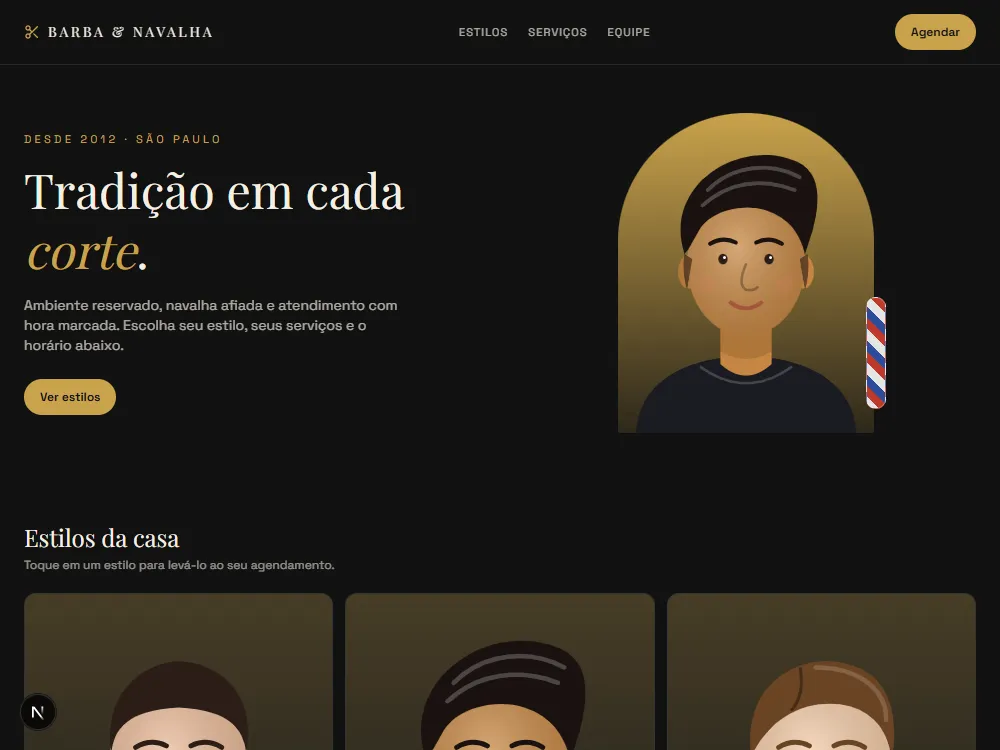
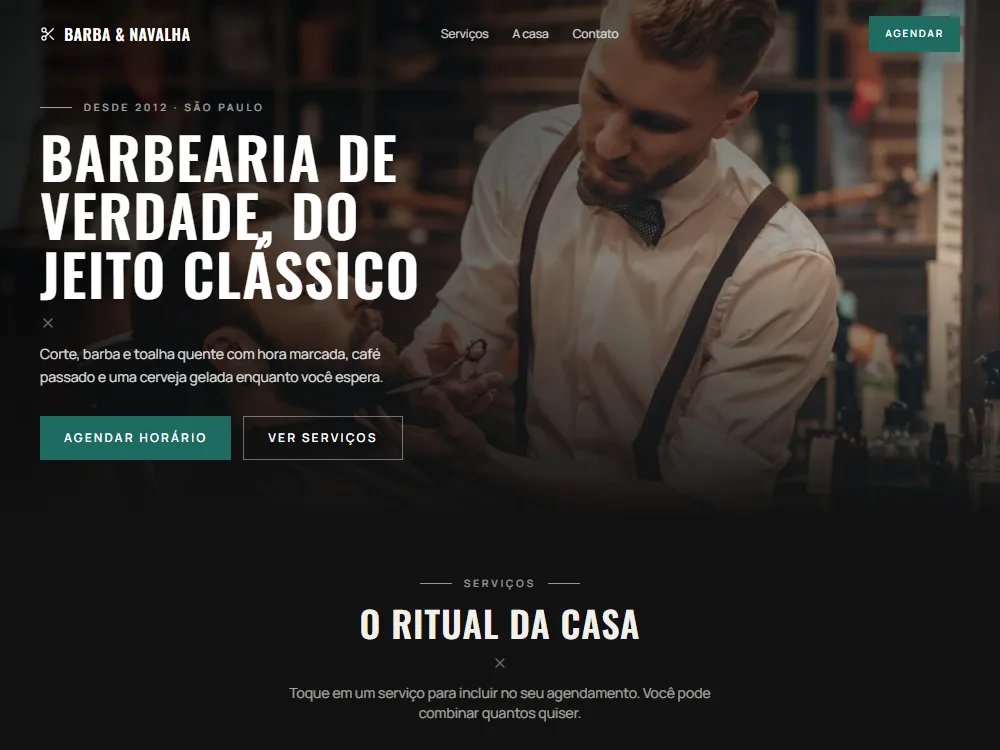
Reformula modelo Barbearia com fotos reais
Hero com foto em tela cheia, títulos condensados (Oswald), serviços com
foto e preço, agendamento com barbeiro e horário, seção "a casa" com
números e novas capturas para a página inicial.

diff --git a/web/components/demos/Barbearia.tsx b/web/components/demos/Barbearia.tsx
@@ -1,38 +1,42 @@
 "use client";
 
 import { useState } from "react";
-import { Scissors, Check, Clock, MapPin } from "lucide-react";
+import Image from "next/image";
+import { Check, Clock, MapPin, MessageCircle, Scissors, Star, X } from "lucide-react";
 import type { Template } from "@/data/templates";
-import { DemoShell, btn } from "./DemoShell";
-import Hair, { type HairStyle } from "./art/Hair";
+import { DemoShell } from "./DemoShell";
+
+const BARBA = "/modelos/barbearia/barba.webp";
+const CORTE = "/modelos/barbearia/corte.webp";
 
 const servicos = [
-  { id: "corte", nome: "Corte clássico", preco: 55, tempo: "40 min" },
-  { id: "barba", nome: "Barba com toalha quente", preco: 40, tempo: "30 min" },
-  { id: "combo", nome: "Corte + barba", preco: 85, tempo: "70 min" },
-  { id: "sobrancelha", nome: "Sobrancelha", preco: 20, tempo: "15 min" },
+  { id: "corte", nome: "Corte clássico", preco: 55, tempo: "40 min", cat: "Cabelo", desc: "Tesoura e máquina, lavagem e finalização com pomada.", foto: CORTE, pos: "45% 25%" },
+  { id: "barba", nome: "Barba com toalha quente", preco: 40, tempo: "30 min", cat: "Barba", desc: "Navalha, toalha quente, óleo e balm para a pele.", foto: BARBA, pos: "36% 50%" },
+  { id: "combo", nome: "Corte + barba", preco: 85, tempo: "70 min", cat: "Combo", desc: "O ritual completo da casa, com bebida por nossa conta.", foto: BARBA, pos: "72% 30%" },
+  { id: "sobrancelha", nome: "Sobrancelha", preco: 20, tempo: "15 min", cat: "Acabamento", desc: "Alinhamento na navalha ou na pinça.", foto: CORTE, pos: "40% 60%" },
 ];
 const horarios = ["09:00", "10:30", "13:00", "15:30", "17:00", "18:30"];
+const barbeiros = ["Sem preferência", "Rafael", "Diego", "Caio"];
 
-const estilos: { style: HairStyle; nome: string; skin: string; hair: string }[] = [
-  { style: "fade", nome: "Degradê", skin: "#e8b896", hair: "#2b1d16" },
-  { style: "pompadour", nome: "Pompadour", skin: "#c68642", hair: "#1a1210" },
-  { style: "social", nome: "Social", skin: "#f1c9a5", hair: "#6b4423" },
-  { style: "curly", nome: "Cacheado", skin: "#8d5524", hair: "#1a1210" },
-  { style: "beard", nome: "Barba e bigode", skin: "#d9a578", hair: "#2b1d16" },
-  { style: "buzz", nome: "Zero", skin: "#a9713f", hair: "#111111" },
-];
+const title = "font-[family-name:var(--font-oswald)] uppercase tracking-wide";
+const teal = "bg-[var(--c2)] text-white hover:brightness-110";
+const btnBase = "inline-flex min-h-11 cursor-pointer items-center justify-center gap-2 px-6 text-xs font-semibold uppercase tracking-[.18em] transition";
 
-const equipe = [
-  { nome: "Rafael", funcao: "Degradê e navalha", style: "fade" as HairStyle, skin: "#e8b896", hair: "#2b1d16", beard: false },
-  { nome: "Diego", funcao: "Barba e bigode", style: "bun" as HairStyle, skin: "#c68642", hair: "#3a2416", beard: true },
-  { nome: "Caio", funcao: "Cortes clássicos", style: "social" as HairStyle, skin: "#8d5524", hair: "#111111", beard: false },
-];
+function Superscript({ children, center = false }: { children: string; center?: boolean }) {
+  return (
+    <p className={`mb-3 flex items-center gap-3 text-[10px] font-medium uppercase tracking-[.3em] opacity-60 ${center ? "justify-center" : ""}`}>
+      <span className="h-px w-8 bg-current" />
+      {children}
+      {center && <span className="h-px w-8 bg-current" />}
+    </p>
+  );
+}
+const Divisor = ({ center = false }: { center?: boolean }) => <X className={`my-3 h-4 w-4 opacity-40 ${center ? "mx-auto" : ""}`} aria-hidden="true" />;
 
 export default function Barbearia({ t }: { t: Template }) {
   const [sel, setSel] = useState<string[]>(["corte"]);
   const [hora, setHora] = useState("13:00");
-  const [estilo, setEstilo] = useState<string | null>(null);
+  const [barbeiro, setBarbeiro] = useState(barbeiros[0]);
   const [ok, setOk] = useState(false);
   const total = servicos.filter((s) => sel.includes(s.id)).reduce((a, s) => a + s.preco, 0);
   const toggle = (id: string) => {
@@ -41,96 +45,210 @@ export default function Barbearia({ t }: { t: Template }) {
   };
 
   return (
-    <DemoShell t={t}>
-      <nav className="sticky top-0 z-10 flex items-center justify-between border-b border-[var(--c3)]/10 bg-[var(--c1)]/90 px-6 py-3.5 backdrop-blur">
-        <span className="flex items-center gap-2 font-serif text-sm tracking-[.2em]"><Scissors className="h-4 w-4 text-[var(--c2)]" aria-hidden="true" />BARBA &amp; NAVALHA</span>
-        <span className="hidden gap-5 text-[11px] uppercase tracking-widest opacity-70 @xl:flex"><a>Estilos</a><a>Serviços</a><a>Equipe</a></span>
-        <button type="button" className={btn}>Agendar</button>
+    <DemoShell t={t} className="relative font-[family-name:var(--font-manrope)]">
+      {/* menu */}
+      <nav className="absolute inset-x-0 top-0 z-20 flex items-center justify-between px-6 py-4 text-white @3xl:px-10">
+        <span className={`${title} flex items-center gap-2 text-base font-semibold tracking-[.3em]`}>
+          <Scissors className="h-4 w-4" aria-hidden="true" />
+          Barba &amp; Navalha
+        </span>
+        <span className="hidden gap-6 text-xs opacity-80 @3xl:flex">
+          <a>Serviços</a>
+          <a>A casa</a>
+          <a>Contato</a>
+        </span>
+        <button type="button" className={`${btnBase} ${teal} !min-h-9 !px-4 !text-[10px]`}>
+          Agendar
+        </button>
       </nav>
 
-      <header className="grid items-center gap-8 px-6 py-12 @xl:grid-cols-2">
-        <div>
-          <p className="mb-3 text-[11px] uppercase tracking-[.3em] text-[var(--c2)]">Desde 2012 · São Paulo</p>
-          <h3 className="mb-4 font-serif text-4xl leading-tight @xl:text-5xl">Tradição em cada <em className="text-[var(--c2)]">corte</em>.</h3>
-          <p className="mb-6 max-w-sm text-sm opacity-70">Ambiente reservado, navalha afiada e atendimento com hora marcada. Escolha seu estilo, seus serviços e o horário abaixo.</p>
-          <a className={btn}>Ver estilos</a>
-        </div>
-        <div className="relative mx-auto h-64 w-52 @xl:h-80 @xl:w-64">
-          <div className="absolute inset-0 rounded-t-[999px] rounded-b-2xl bg-gradient-to-b from-[var(--c2)] to-[var(--c2)]/15" />
-          <Hair style="pompadour" skin="#c68642" hair="#1a1210" className="absolute inset-x-0 bottom-0 h-[96%] w-full" />
-          <div className="absolute -right-3 bottom-6 h-28 w-5 rounded-full border border-[var(--c3)]/30 [background:repeating-linear-gradient(45deg,#e5e5e5_0_8px,#c0392b_8px_16px,#2b4c9b_16px_24px)]" aria-hidden="true" />
+      {/* hero com foto */}
+      <header className="relative min-h-[460px] overflow-hidden text-white @3xl:min-h-[520px]">
+        <Image src={BARBA} alt="Barbeiro aparando a barba de um cliente na tesoura" fill priority sizes="1000px" className="object-cover object-[60%_30%]" />
+        <div aria-hidden="true" className="absolute inset-0 bg-gradient-to-r from-black/85 via-black/55 to-black/10" />
+        <div aria-hidden="true" className="absolute inset-0 bg-gradient-to-t from-[var(--c1)] via-transparent to-black/40" />
+        <div className="relative flex min-h-[460px] flex-col justify-center px-6 pb-14 pt-24 @3xl:min-h-[520px] @3xl:px-10">
+          <Superscript>Desde 2012 · São Paulo</Superscript>
+          <h3 className={`${title} max-w-md text-[2.8rem] font-semibold leading-[1.02] @xl:text-[3.6rem]`}>Barbearia de verdade, do jeito clássico</h3>
+          <Divisor />
+          <p className="mb-7 max-w-sm text-sm leading-relaxed opacity-85">Corte, barba e toalha quente com hora marcada, café passado e uma cerveja gelada enquanto você espera.</p>
+          <div className="flex flex-wrap gap-3">
+            <button type="button" className={`${btnBase} ${teal}`}>
+              Agendar horário
+            </button>
+            <button type="button" className={`${btnBase} border border-white/40 hover:border-white`}>
+              Ver serviços
+            </button>
+          </div>
         </div>
       </header>
 
-      <section className="px-6 py-10">
-        <h4 className="mb-1 font-serif text-2xl">Estilos da casa</h4>
-        <p className="mb-5 text-xs opacity-60">Toque em um estilo para levá-lo ao seu agendamento.</p>
-        <div className="grid grid-cols-2 gap-3 @xl:grid-cols-3">
-          {estilos.map((e) => {
-            const on = estilo === e.nome;
-            return (
-              <button key={e.nome} type="button" aria-pressed={on} onClick={() => { setEstilo(on ? null : e.nome); setOk(false); }}
-                className={`group cursor-pointer overflow-hidden rounded-xl border text-left transition ${on ? "border-[var(--c2)] bg-[var(--c2)]/10" : "border-[var(--c3)]/12 bg-[var(--c3)]/[.04] hover:border-[var(--c2)]/60"}`}>
-                <div className="aspect-[5/6] overflow-hidden bg-gradient-to-b from-[var(--c2)]/25 to-transparent">
-                  <Hair style={e.style} skin={e.skin} hair={e.hair} className="h-full w-full translate-y-3 transition duration-500 group-hover:scale-110" />
-                </div>
-                <div className="flex items-center justify-between px-3 py-2.5 text-xs font-medium">
-                  {e.nome}
-                  <span className={`grid h-4 w-4 place-items-center rounded-full border ${on ? "border-[var(--c2)] bg-[var(--c2)] text-[var(--c1)]" : "border-[var(--c3)]/30"}`}>{on && <Check className="h-2.5 w-2.5" aria-hidden="true" />}</span>
-                </div>
-              </button>
-            );
-          })}
-        </div>
-      </section>
-
-      <section className="px-6 py-10">
-        <h4 className="mb-1 font-serif text-2xl">Monte seu atendimento</h4>
-        <p className="mb-5 text-xs opacity-60">Toque nos serviços e escolha um horário.</p>
-        <div className="grid gap-3 @xl:grid-cols-2">
-          {servicos.map((s) => {
+      {/* serviços com foto */}
+      <section className="px-6 py-14 text-center @3xl:px-10">
+        <Superscript center>Serviços</Superscript>
+        <h4 className={`${title} text-3xl font-semibold @xl:text-4xl`}>O ritual da casa</h4>
+        <Divisor center />
+        <p className="mx-auto mb-9 max-w-md text-sm opacity-65">Toque em um serviço para incluir no seu agendamento. Você pode combinar quantos quiser.</p>
+        <div className="grid gap-4 text-left @xl:grid-cols-3">
+          {servicos.slice(0, 3).map((s) => {
             const on = sel.includes(s.id);
             return (
-              <button key={s.id} type="button" aria-pressed={on} onClick={() => toggle(s.id)}
-                className={`flex cursor-pointer items-center justify-between rounded-xl border p-4 text-left transition ${on ? "border-[var(--c2)] bg-[var(--c2)]/10" : "border-[var(--c3)]/15 hover:border-[var(--c2)]/60"}`}>
-                <span>
-                  <span className="block text-sm font-medium">{s.nome}</span>
-                  <span className="mt-0.5 flex items-center gap-1 text-[11px] opacity-60"><Clock className="h-3 w-3" aria-hidden="true" />{s.tempo}</span>
-                </span>
-                <span className="flex items-center gap-3 text-sm font-semibold text-[var(--c2)]">R$ {s.preco}
-                  <span className={`grid h-5 w-5 place-items-center rounded-full border ${on ? "border-[var(--c2)] bg-[var(--c2)] text-[var(--c1)]" : "border-[var(--c3)]/30"}`}>{on && <Check className="h-3 w-3" aria-hidden="true" />}</span>
-                </span>
+              <button
+                key={s.id}
+                type="button"
+                aria-pressed={on}
+                onClick={() => toggle(s.id)}
+                className={`group cursor-pointer border text-center transition ${on ? "border-[var(--c2)] bg-[var(--c2)]/10" : "border-white/12 bg-white/[.02] hover:border-white/30"}`}
+              >
+                <div className="relative aspect-[4/3] overflow-hidden">
+                  <Image src={s.foto} alt={s.nome} fill sizes="(max-width: 768px) 90vw, 300px" className="object-cover transition duration-700 group-hover:scale-105" style={{ objectPosition: s.pos }} />
+                  {on && (
+                    <span className="absolute right-3 top-3 grid h-7 w-7 place-items-center rounded-full bg-[var(--c2)] text-white">
+                      <Check className="h-4 w-4" aria-hidden="true" />
+                    </span>
+                  )}
+                </div>
+                <div className="px-5 py-5">
+                  <p className="mb-1 text-[10px] uppercase tracking-[.25em] opacity-50">{s.cat}</p>
+                  <p className={`${title} mb-2 text-lg font-semibold`}>{s.nome}</p>
+                  <p className="mb-4 text-xs leading-relaxed opacity-60">{s.desc}</p>
+                  <p className="flex items-center justify-center gap-3 text-sm">
+                    <span className="font-semibold">R$ {s.preco}</span>
+                    <span className="flex items-center gap-1 text-xs opacity-55">
+                      <Clock className="h-3 w-3" aria-hidden="true" />
+                      {s.tempo}
+                    </span>
+                  </p>
+                </div>
               </button>
             );
           })}
         </div>
-        <div className="mt-5 flex flex-wrap gap-2" role="group" aria-label="Horários">
-          {horarios.map((h) => (
-            <button key={h} type="button" aria-pressed={hora === h} onClick={() => { setHora(h); setOk(false); }}
-              className={`min-h-9 cursor-pointer rounded-full border px-4 text-xs transition ${hora === h ? "border-[var(--c2)] bg-[var(--c2)] text-[var(--c1)]" : "border-[var(--c3)]/20 hover:border-[var(--c2)]"}`}>{h}</button>
-          ))}
-        </div>
-        <div className="mt-6 flex flex-wrap items-center justify-between gap-3 rounded-xl bg-[var(--c3)]/5 p-4">
-          <div className="text-xs"><span className="opacity-60">Total{estilo ? ` · ${estilo}` : ""}</span><div className="font-serif text-2xl text-[var(--c2)]">R$ {total}</div></div>
-          <button type="button" disabled={!sel.length} onClick={() => setOk(true)} className={`${btn} disabled:opacity-40`}>{ok ? "Agendado ✓" : `Confirmar às ${hora}`}</button>
-        </div>
       </section>
 
-      <section className="px-6 py-10">
-        <h4 className="mb-5 font-serif text-2xl">Nossa equipe</h4>
-        <div className="grid gap-3 @xl:grid-cols-3">
-          {equipe.map((m) => (
-            <div key={m.nome} className="flex items-center gap-4 rounded-xl border border-[var(--c3)]/12 p-3">
-              <div className="h-20 w-16 shrink-0 overflow-hidden rounded-xl bg-gradient-to-b from-[var(--c2)]/30 to-transparent">
-                <Hair style={m.style} skin={m.skin} hair={m.hair} beard={m.beard} className="h-full w-full translate-y-2" />
+      {/* agendamento */}
+      <section className="px-6 pb-14 @3xl:px-10">
+        <div className="border border-white/12 bg-white/[.03] p-6">
+          <Superscript>Agendamento</Superscript>
+          <h4 className={`${title} mb-6 text-2xl font-semibold`}>Monte seu horário</h4>
+          <div className="grid gap-6 @3xl:grid-cols-2">
+            <div>
+              <p className="mb-2 text-[10px] uppercase tracking-[.25em] opacity-60">Serviços</p>
+              <div className="flex flex-col gap-2">
+                {servicos.map((s) => {
+                  const on = sel.includes(s.id);
+                  return (
+                    <button
+                      key={s.id}
+                      type="button"
+                      aria-pressed={on}
+                      onClick={() => toggle(s.id)}
+                      className={`flex min-h-12 cursor-pointer items-center justify-between border px-4 text-left text-sm transition ${on ? "border-[var(--c2)] bg-[var(--c2)]/10" : "border-white/12 hover:border-white/30"}`}
+                    >
+                      <span className="flex items-center gap-3">
+                        <span className={`grid h-5 w-5 place-items-center border ${on ? "border-[var(--c2)] bg-[var(--c2)]" : "border-white/30"}`}>{on && <Check className="h-3 w-3 text-white" aria-hidden="true" />}</span>
+                        {s.nome}
+                      </span>
+                      <span className="text-xs opacity-70">R$ {s.preco}</span>
+                    </button>
+                  );
+                })}
               </div>
-              <div><div className="font-serif text-lg">{m.nome}</div><div className="text-xs opacity-65">{m.funcao}</div></div>
             </div>
-          ))}
+            <div className="flex flex-col gap-5">
+              <div>
+                <p className="mb-2 text-[10px] uppercase tracking-[.25em] opacity-60">Barbeiro</p>
+                <div className="flex flex-wrap gap-2">
+                  {barbeiros.map((b) => (
+                    <button
+                      key={b}
+                      type="button"
+                      aria-pressed={barbeiro === b}
+                      onClick={() => { setBarbeiro(b); setOk(false); }}
+                      className={`min-h-9 cursor-pointer border px-3.5 text-xs transition ${barbeiro === b ? "border-[var(--c2)] bg-[var(--c2)] text-white" : "border-white/15 hover:border-white/40"}`}
+                    >
+                      {b}
+                    </button>
+                  ))}
+                </div>
+              </div>
+              <div>
+                <p className="mb-2 text-[10px] uppercase tracking-[.25em] opacity-60">Horário · hoje</p>
+                <div className="grid grid-cols-3 gap-2" role="group" aria-label="Horários">
+                  {horarios.map((h) => (
+                    <button
+                      key={h}
+                      type="button"
+                      aria-pressed={hora === h}
+                      onClick={() => { setHora(h); setOk(false); }}
+                      className={`min-h-9 cursor-pointer border text-xs transition ${hora === h ? "border-[var(--c2)] bg-[var(--c2)] text-white" : "border-white/15 hover:border-white/40"}`}
+                    >
+                      {h}
+                    </button>
+                  ))}
+                </div>
+              </div>
+              <div className="mt-auto flex flex-wrap items-center justify-between gap-3 border-t border-white/10 pt-4">
+                <span>
+                  <span className="block text-[10px] uppercase tracking-[.25em] opacity-60">Total</span>
+                  <span className={`${title} text-3xl font-semibold`}>R$ {total}</span>
+                </span>
+                <button type="button" disabled={!sel.length} onClick={() => setOk(true)} className={`${btnBase} ${teal} disabled:opacity-40`}>
+                  {ok ? "Agendado ✓" : `Confirmar às ${hora}`}
+                </button>
+              </div>
+            </div>
+          </div>
         </div>
       </section>
 
-      <footer className="flex items-center gap-2 border-t border-[var(--c3)]/10 px-6 py-6 text-xs opacity-70"><MapPin className="h-4 w-4" aria-hidden="true" />Rua das Palmeiras, 120 · Seg a Sáb, 9h às 20h</footer>
+      {/* a casa */}
+      <section className="grid items-center gap-8 px-6 pb-14 @3xl:grid-cols-[.9fr_1.1fr] @3xl:px-10">
+        <div className="relative mx-auto aspect-[4/5] w-full max-w-[360px] overflow-hidden">
+          <Image src={CORTE} alt="Barbeiro finalizando um corte com pente e tesoura" fill sizes="(max-width: 768px) 90vw, 360px" className="object-cover object-[50%_30%]" />
+        </div>
+        <div>
+          <Superscript>A casa</Superscript>
+          <h4 className={`${title} text-3xl font-semibold leading-tight @xl:text-4xl`}>Tradição em cada corte</h4>
+          <Divisor />
+          <p className="mb-6 text-sm leading-relaxed opacity-70">
+            Ambiente reservado, cadeiras de época e barbeiros que tratam cada cliente pelo nome. Aqui o corte não tem pressa, e a conversa também não.
+          </p>
+          <dl className="mb-7 grid grid-cols-3 gap-4 border-y border-white/10 py-5">
+            {[
+              ["12", "anos de casa"],
+              ["15 mil", "cortes por ano"],
+              ["4,9", "no Google"],
+            ].map(([n, l]) => (
+              <div key={l}>
+                <dt className={`${title} flex items-center gap-1 text-2xl font-semibold`}>
+                  {n}
+                  {l === "no Google" && <Star className="h-4 w-4 fill-[#e2a93b] text-[#e2a93b]" aria-hidden="true" />}
+                </dt>
+                <dd className="text-[11px] opacity-55">{l}</dd>
+              </div>
+            ))}
+          </dl>
+          <button type="button" className={`${btnBase} border border-white/30 hover:border-white`}>
+            <MessageCircle className="h-4 w-4" aria-hidden="true" />
+            Falar no WhatsApp
+          </button>
+        </div>
+      </section>
+
+      {/* rodapé */}
+      <footer className="border-t border-white/10 px-6 py-8 @3xl:px-10">
+        <div className="flex flex-wrap items-center justify-between gap-4 text-xs">
+          <span className={`${title} flex items-center gap-2 text-sm font-semibold tracking-[.3em]`}>
+            <Scissors className="h-4 w-4 text-[var(--c2)]" aria-hidden="true" />
+            Barba &amp; Navalha
+          </span>
+          <span className="flex items-center gap-2 opacity-65">
+            <MapPin className="h-4 w-4" aria-hidden="true" />
+            Rua das Palmeiras, 120 · Seg a sáb, 9h às 20h
+          </span>
+        </div>
+      </footer>
     </DemoShell>
   );
 }

diff --git a/web/app/layout.tsx b/web/app/layout.tsx
@@ -1,5 +1,5 @@
 import type { Metadata } from "next";
-import { Space_Grotesk, JetBrains_Mono, Playfair_Display, Bricolage_Grotesque, Manrope } from "next/font/google";
+import { Space_Grotesk, JetBrains_Mono, Playfair_Display, Bricolage_Grotesque, Manrope, Oswald } from "next/font/google";
 import "./globals.css";
 
 // fonte de títulos: pesada e com personalidade, no estilo "cinematográfico" da referência
@@ -9,6 +9,8 @@ const playfair = Playfair_Display({ variable: "--font-playfair", subsets: ["lati
 const jetbrains = JetBrains_Mono({ variable: "--font-jetbrains", subsets: ["latin"] });
 // texto do modelo Médico: sem serifa limpa, com cara de clínica
 const manrope = Manrope({ variable: "--font-manrope", subsets: ["latin"] });
+// títulos do modelo Barbearia: condensada em caixa alta
+const oswald = Oswald({ variable: "--font-oswald", subsets: ["latin"], weight: ["400", "500", "600", "700"] });
 
 export const metadata: Metadata = {
   title: "Codexa Tecnologia — Crie seu site da forma que desejar",
@@ -18,7 +20,7 @@ export const metadata: Metadata = {
 
 export default function RootLayout({ children }: { children: React.ReactNode }) {
   return (
-    <html lang="pt-BR" className={`${space.variable} ${jetbrains.variable} ${playfair.variable} ${display.variable} ${manrope.variable} h-full`}>
+    <html lang="pt-BR" className={`${space.variable} ${jetbrains.variable} ${playfair.variable} ${display.variable} ${manrope.variable} ${oswald.variable} h-full`}>
       <body className="min-h-full flex flex-col">{children}</body>
     </html>
   );

diff --git a/web/data/templates.ts b/web/data/templates.ts
@@ -33,11 +33,11 @@ export const templates: Template[] = [
     slug: "barbearia",
     nome: "Barbearia",
     categoria: "Beleza",
-    descricao: "Agendamento online, tabela de serviços, galeria de cortes e equipe de barbeiros.",
-    tags: ["Agendamento", "Galeria", "WhatsApp"],
-    cores: ["#121212", "#c9a24b", "#f5efe2"],
+    descricao: "Barbearia clássica: hero com foto, serviços com foto, agendamento com barbeiro e horário, e a história da casa.",
+    tags: ["Agendamento", "Serviços", "WhatsApp"],
+    cores: ["#111111", "#1f6b60", "#f2efe9"],
     variante: "split",
-    secoes: ["Hero com chamada para agendar", "Tabela de serviços e preços", "Galeria de cortes", "Equipe de barbeiros", "Localização e horários"],
+    secoes: ["Hero com foto em tela cheia", "Serviços com foto e preço", "Agendamento: serviços, barbeiro e horário", "A casa, com números", "Endereço e horários"],
   },
   {
     slug: "transportadora",
